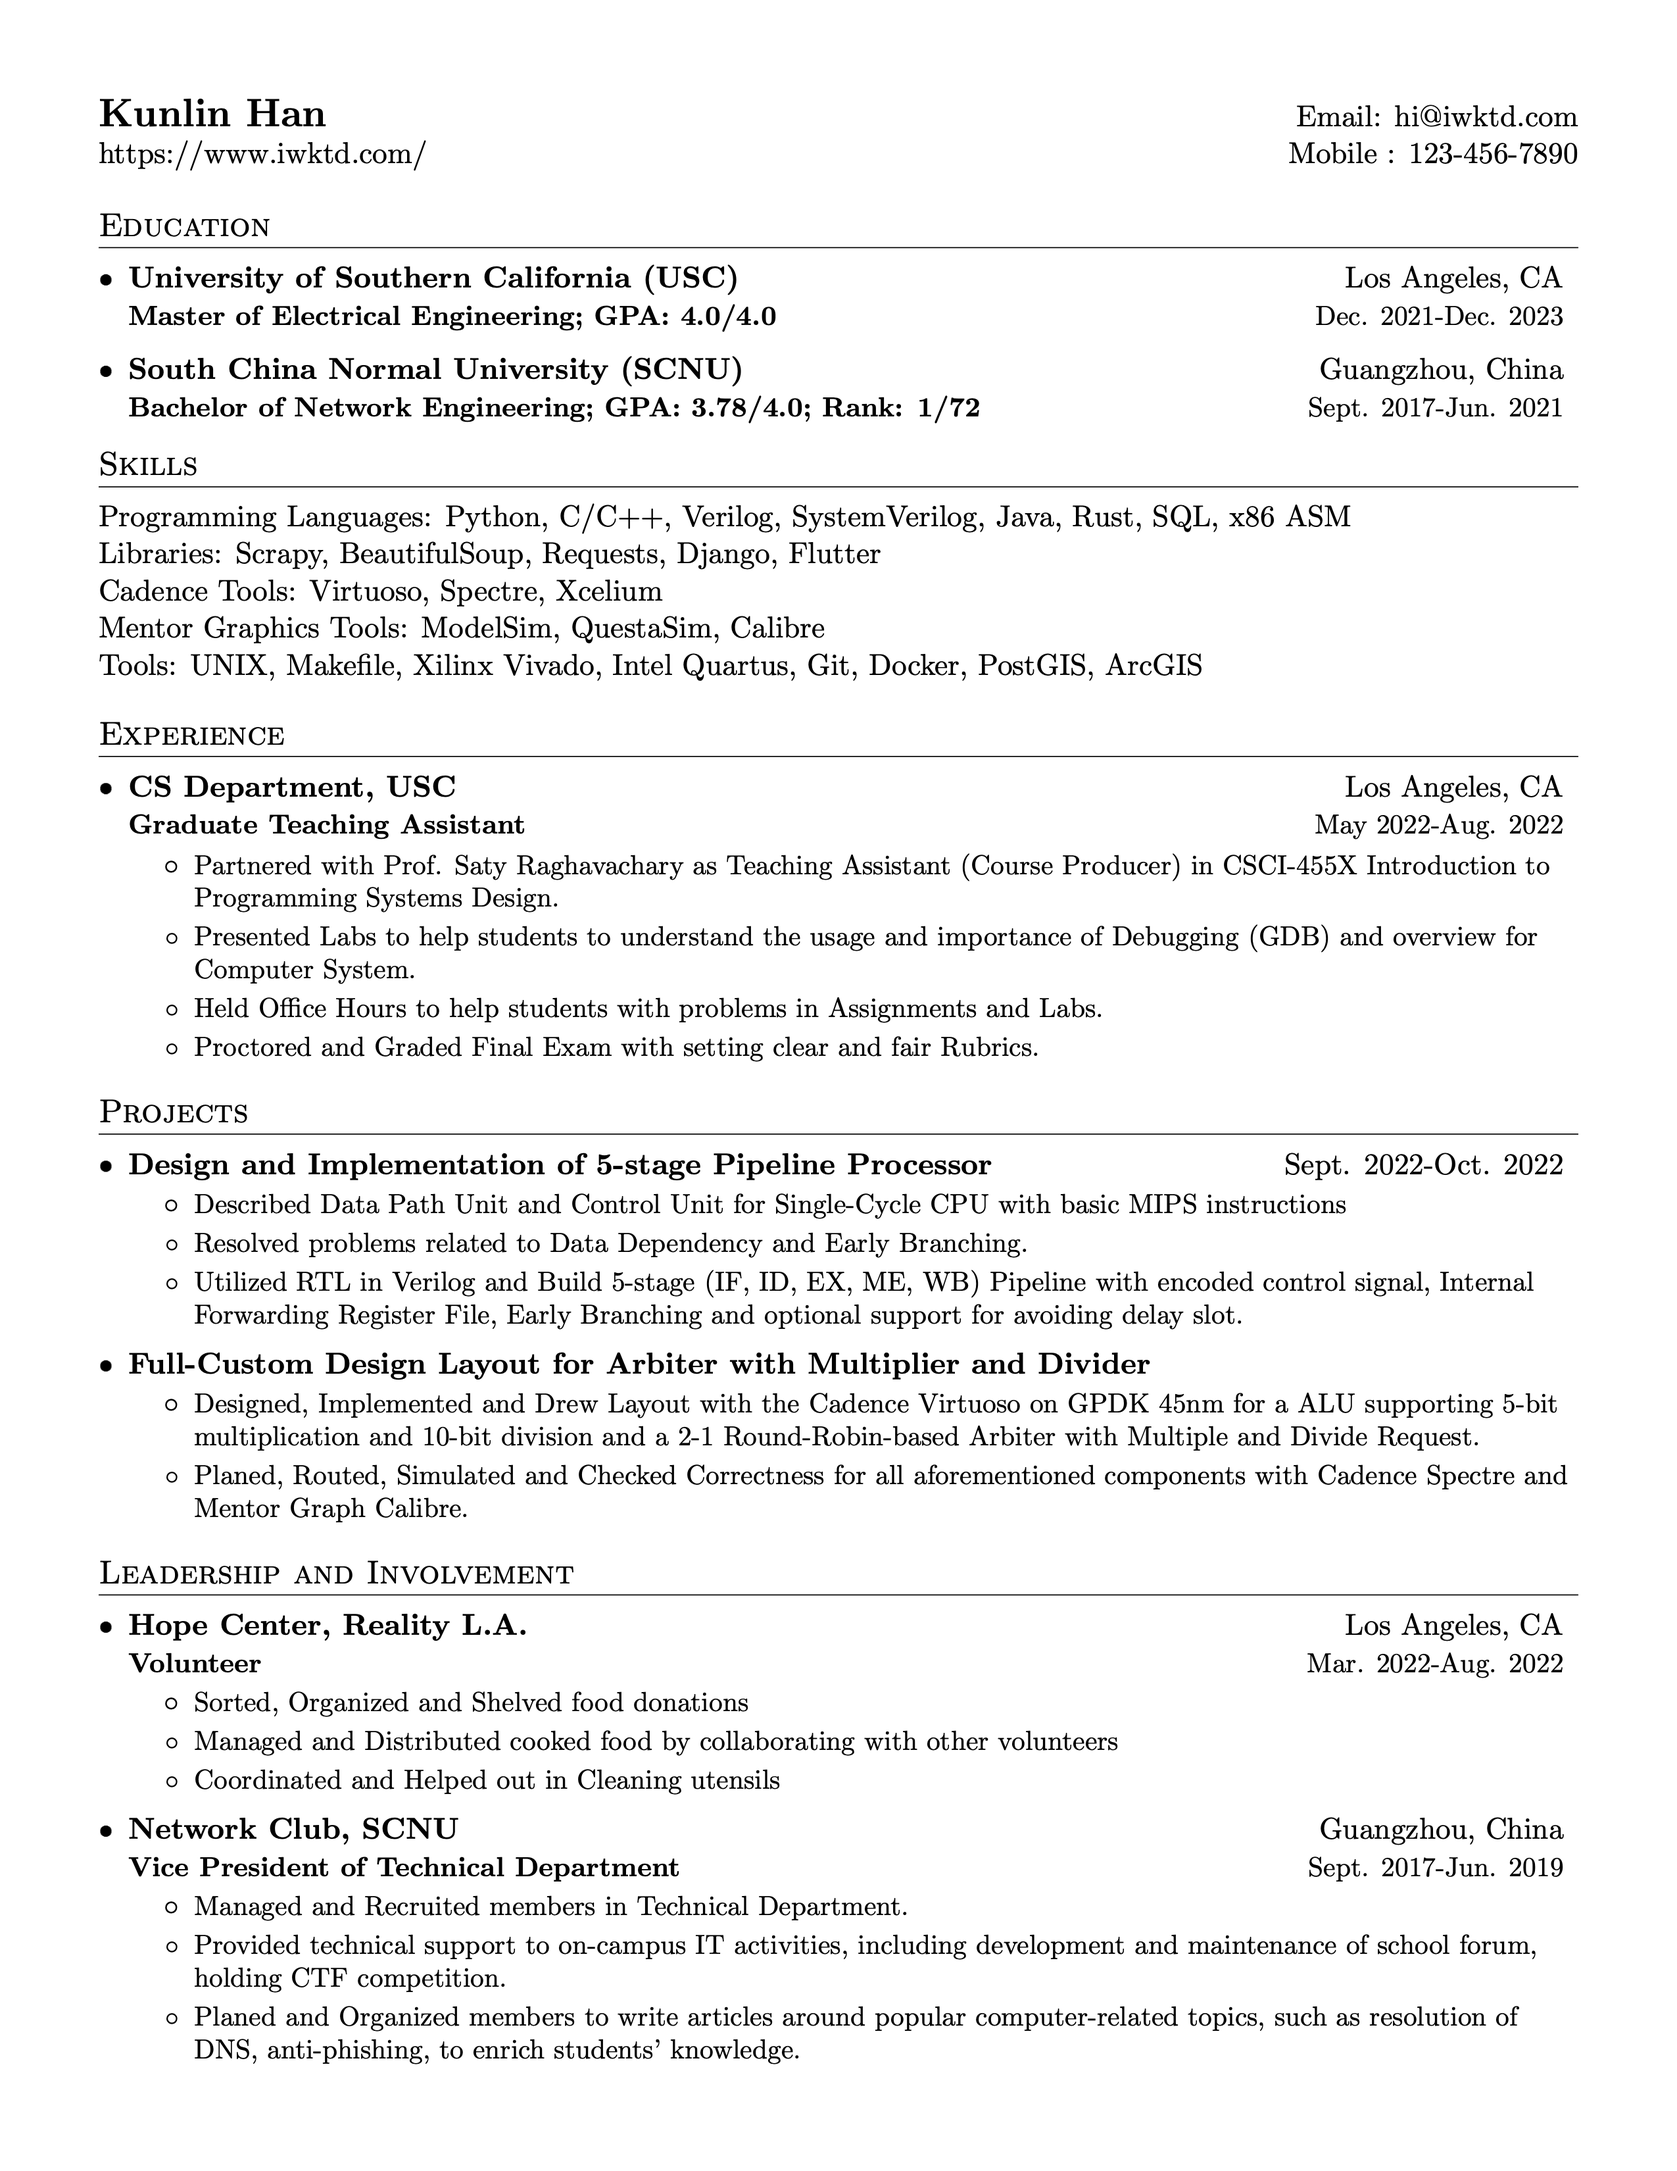
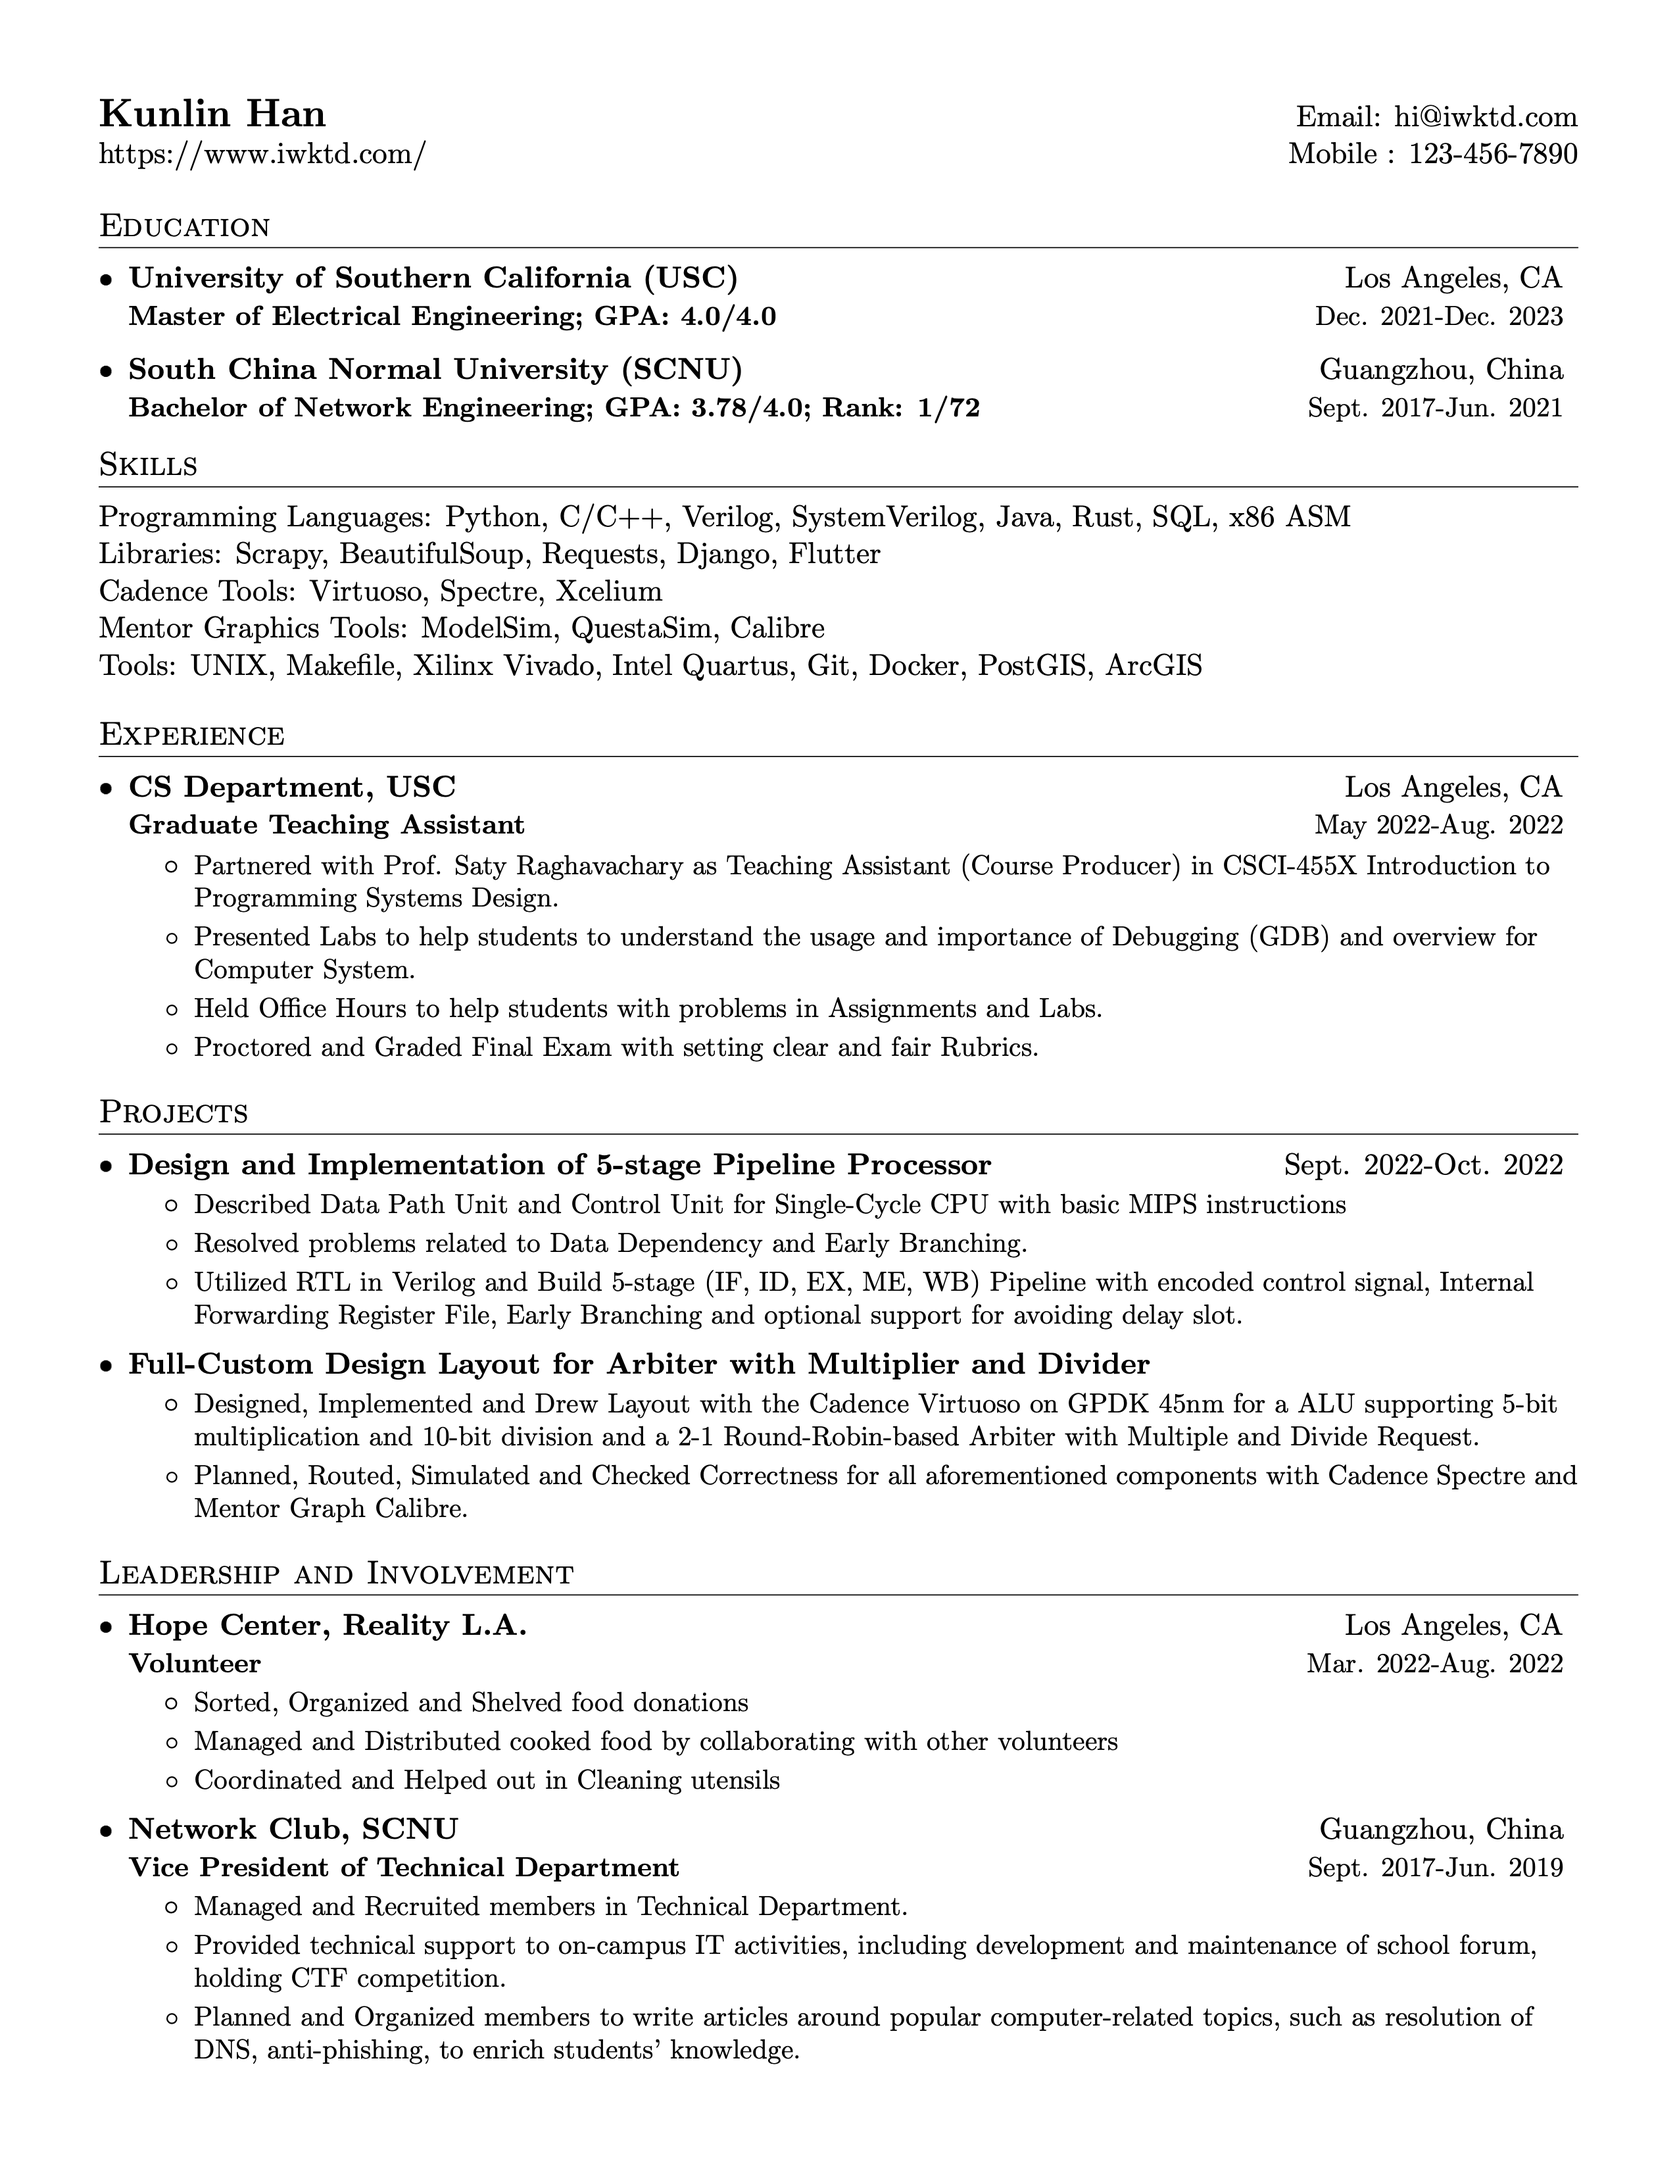
Fixed typo in the config.yml and update template.png.

diff --git a/template.tex b/template.tex
@@ -152,7 +152,7 @@ Tools: UNIX, Makefile, Xilinx Vivado, Intel Quartus, Git, Docker, PostGIS, ArcGI
 \resumeSubheadingNoTitle
     {Full-Custom Design Layout for Arbiter with Multiplier and Divider}{}\resumeItemListStart
 	\resumeItemOne{Designed, Implemented and Drew Layout with the Cadence Virtuoso on GPDK 45nm for a ALU supporting 5-bit multiplication and 10-bit division and a 2-1 Round-Robin-based Arbiter with Multiple and Divide Request.}
-	\resumeItemOne{Planed, Routed, Simulated and Checked Correctness for all aforementioned components with Cadence Spectre and Mentor Graph Calibre.}
+	\resumeItemOne{Planned, Routed, Simulated and Checked Correctness for all aforementioned components with Cadence Spectre and Mentor Graph Calibre.}
 \resumeItemListEnd
 \resumeSubHeadingListEnd
 
@@ -172,7 +172,7 @@ Tools: UNIX, Makefile, Xilinx Vivado, Intel Quartus, Git, Docker, PostGIS, ArcGI
     {Vice President of Technical Department}{Sept. 2017-Jun. 2019}\resumeItemListStart
 	\resumeItemOne{Managed and Recruited members in Technical Department.}
 	\resumeItemOne{Provided technical support to on-campus IT activities, including development and maintenance of school forum, holding CTF competition.}
-	\resumeItemOne{Planed and Organized members to write articles around popular computer-related topics, such as resolution of DNS, anti-phishing, to enrich students' knowledge.}
+	\resumeItemOne{Planned and Organized members to write articles around popular computer-related topics, such as resolution of DNS, anti-phishing, to enrich students' knowledge.}
 \resumeItemListEnd
 \resumeSubHeadingListEnd
 

diff --git a/README.md b/README.md
@@ -72,7 +72,7 @@ docker build -t latex .
 docker run --rm -i -v "$PWD":/data latex make
 ```
 
-Then you are done!
+Then you will get the `template.pdf`!
 
 ### Run Locally
 
